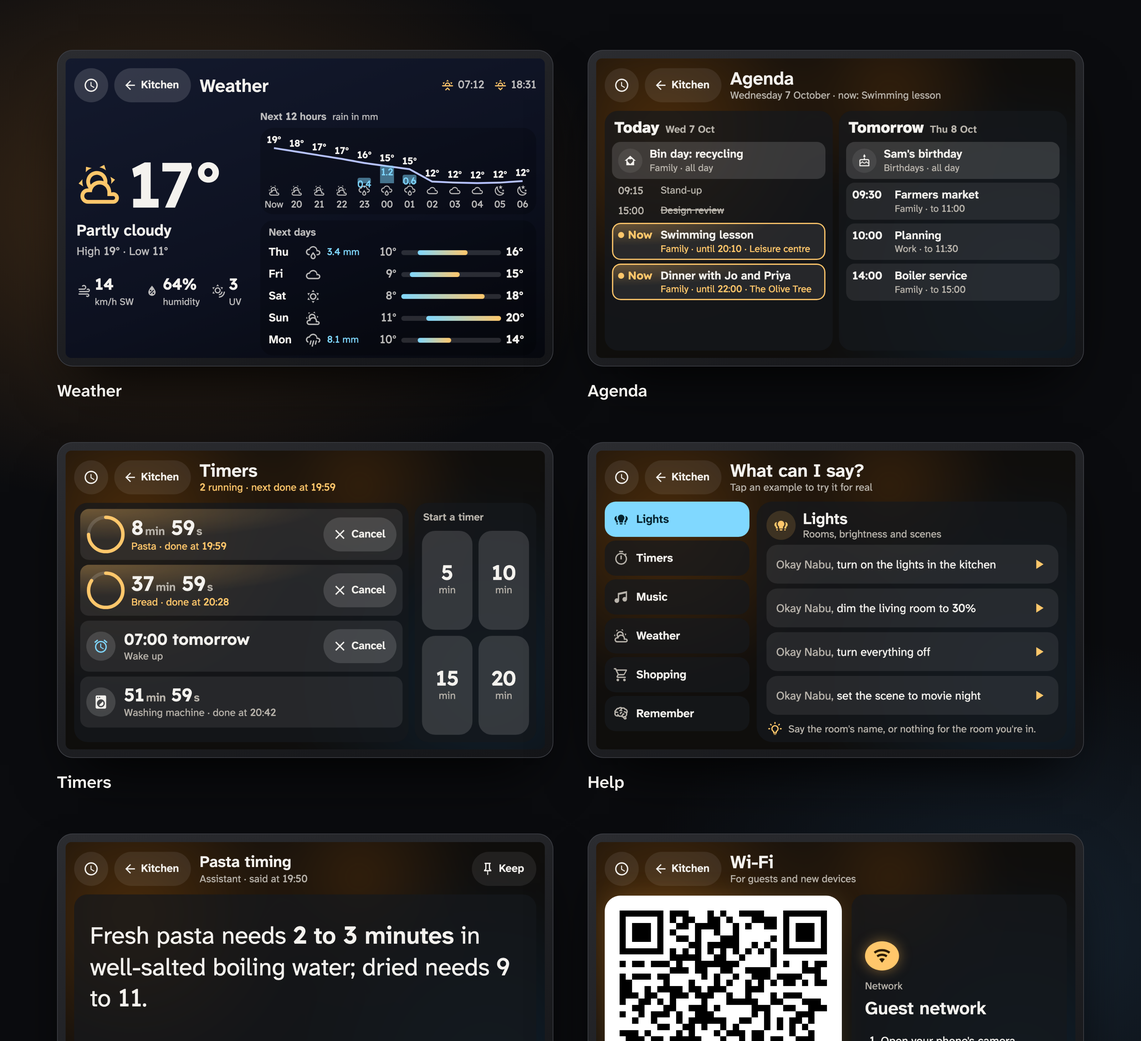
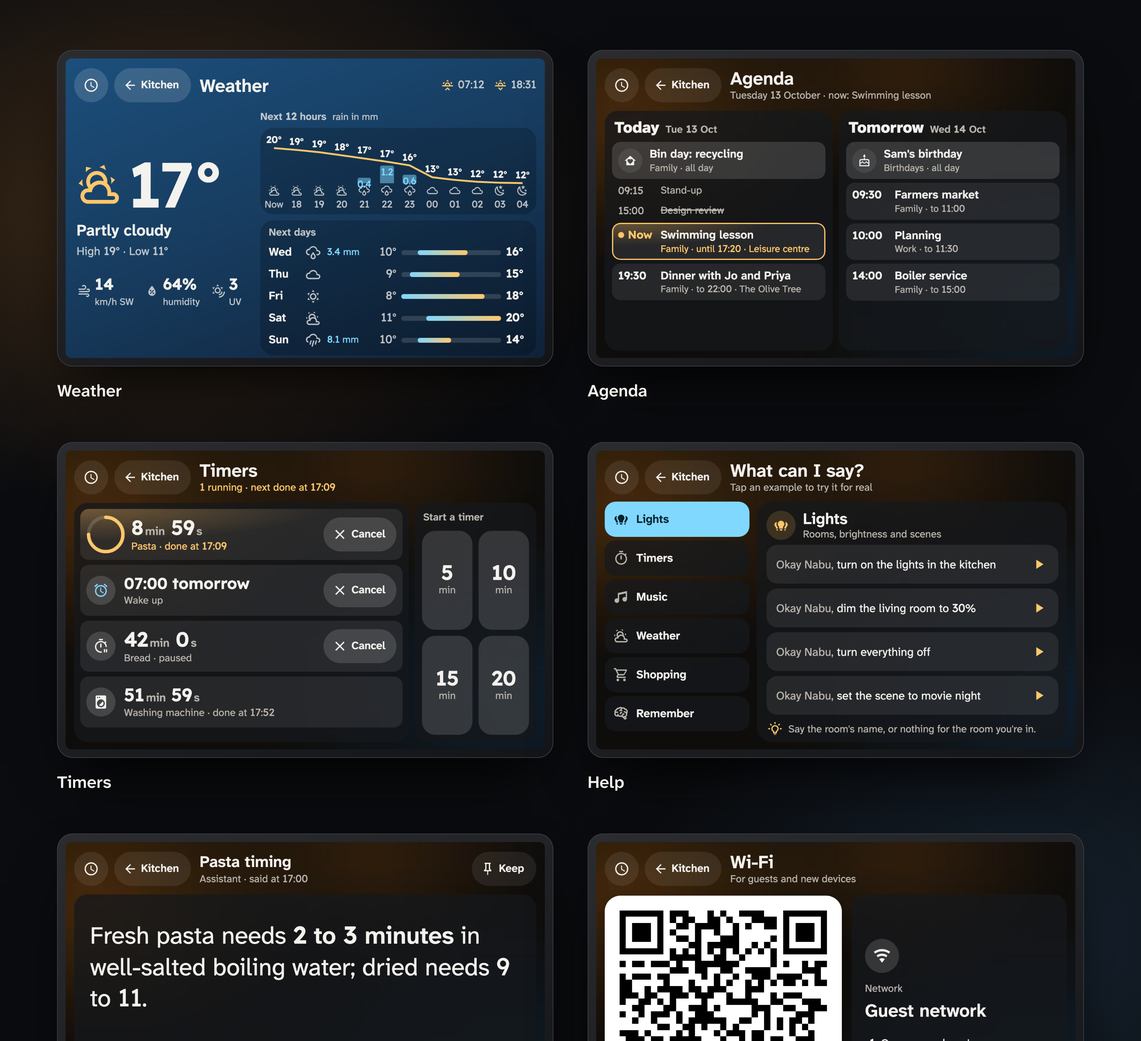
Lamplight 1.2.0: version, CHANGELOG, README, demo states and images
- 1.2.0 in package.json, package-lock.json, core VERSION and the bundle
  banner.
- CHANGELOG.md: 1.0.0 (7 Oct 2026, initial release), 1.1.0 (9 Oct 2026, the
  module layer) and 1.2.0 (13 Oct 2026).
- README: the new core exports (loadState, failedHtml, preblur, PHOTO_LOOK,
  TOAST_MS, UNDO_MS) and hooks (retry, resized, hideToast, toast/call undo),
  the page fit and 'lamplight-layout', the card table, and a CHANGELOG link.
- Demo: the room photo is now one image (demo/room.svg), so the cards
  pre-blur it. A paused timer is in the timers mock, and the gallery adds a
  forecast that won't load, read-only Help while visitors are in, and an info
  misfire. Captions are sentence case. Icons regenerated.
- docs/images re-rendered with tools/showcase.cjs (hero and cards; the
  palette is unchanged).

diff --git a/demo/demo.js b/demo/demo.js
@@ -1,4 +1,5 @@
-// The demo: every card on a made-up home, with a stand-in Home Assistant. Open demo/index.html (any static server),
+// The demo: every card on a made-up home, with a stand-in Home Assistant, then a few of their other states (a forecast
+// that won't load, Help while visitors are in, a reply that isn't an answer). Open demo/index.html (any static server),
 // or demo/index.html?card=weather for one card at tablet size.
 import ICONS from './icons.js';
 import '../dist/lamplight.js';
@@ -27,6 +28,8 @@ const hour = new Date().getHours();
 const states = {
   'sun.sun': { state: hour >= 7 && hour < 19 ? 'above_horizon' : 'below_horizon', attributes: { next_rising: tomorrow(7, 12), next_setting: today(18, 31) } },
   'weather.home': { state: 'partlycloudy', attributes: { temperature: 17, humidity: 64, wind_speed: 14, wind_bearing: 230, uv_index: 3, friendly_name: 'Home' } },
+  'weather.offline': { state: 'cloudy', attributes: { temperature: 13, humidity: 81, wind_speed: 22, wind_bearing: 200, friendly_name: 'Offline' } },
+  'input_boolean.visitors': { state: 'on', attributes: { friendly_name: 'Visitors' } },
   'calendar.family': { state: 'on', attributes: { friendly_name: 'Family' } },
   'calendar.work': { state: 'off', attributes: { friendly_name: 'Work' } },
   'calendar.birthdays': { state: 'off', attributes: { friendly_name: 'Birthdays' } },
@@ -35,11 +38,14 @@ const states = {
     friendly_name: 'the kitchen', home_screen: '/view-assist/clock', mode: 'normal',
     timers: [
       { id: 't1', name: 'pasta', timer_class: 'timer', status: 'running', created_at: at(-3 * MIN), original_expiry: at(9 * MIN), expires: at(9 * MIN) },
-      { id: 't2', name: 'bread', timer_class: 'timer', status: 'running', created_at: at(-7 * MIN), original_expiry: at(38 * MIN), expires: at(38 * MIN) },
+      { id: 't2', name: 'bread', timer_class: 'timer', status: 'paused', created_at: at(-7 * MIN), original_expiry: at(38 * MIN), expires: at(38 * MIN), updated_at: at(-4 * MIN) },
       { id: 'a1', name: 'wake up', timer_class: 'alarm', status: 'running', expires: tomorrow(7, 0) },
     ],
     title: 'Pasta timing',
     message: 'Fresh pasta needs **2 to 3 minutes** in well-salted boiling water; dried needs 9 to 11.\n\n* Taste a minute before the packet time\n* Keep a mug of the water for the sauce',
+  } },
+  'sensor.viewassist_bedroom': { state: 'normal', attributes: {
+    friendly_name: 'the bedroom', home_screen: '/view-assist/clock', mode: 'normal', timers: [], title: '', message: "Sorry, I couldn't understand that",
   } },
 };
 
@@ -74,6 +80,7 @@ const hass = {
       return { conversation_id: 'demo', response: { speech: { plain: { speech: `Done: "${msg.text}". (This is the demo; nothing happened.)` } } } };
     }
     const id = msg.target?.entity_id;
+    if (id === 'weather.offline') { await new Promise((r) => setTimeout(r, 300)); throw new Error('the weather service is offline'); }
     if (msg.domain === 'weather') return { response: { [id]: { forecast: msg.service_data.type === 'hourly' ? hourly : daily } } };
     if (msg.domain === 'calendar') return { response: { [id]: { events: events[id] || [] } } };
     throw new Error('not in the demo');
@@ -82,24 +89,29 @@ const hass = {
 
 const nav = { home: '#', back: '#', back_label: 'Kitchen' };
 const VA = { view_assist_sensor: 'sensor.viewassist_kitchen', nav };
+const HELP = [
+  { name: 'Lights', icon: 'mdi:lightbulb-group', hint: 'Rooms, brightness and scenes', tip: "Say the room's name, or nothing for the room you're in.", examples: [
+    { say: 'turn on the lights in the {room}' }, { say: 'dim the living room to 30%' }, { say: 'turn everything off', confirm: true }, { say: 'set the scene to movie night' }] },
+  { name: 'Timers', icon: 'mdi:timer-outline', hint: 'Timers and alarms on this tablet', examples: [
+    { say: 'set a timer for 10 minutes' }, { say: 'set a pasta timer for 9 minutes' }, { say: 'wake me at 7 tomorrow' }] },
+  { name: 'Music', icon: 'mdi:music', hint: 'Speakers in every room', examples: [{ say: 'play some jazz in the {room}' }, { say: 'pause the music' }, { say: 'turn it up' }] },
+  { name: 'Weather', icon: 'mdi:weather-partly-cloudy', hint: 'Today and the week ahead', examples: [{ say: 'will it rain today?' }, { say: "what's the weather tomorrow?" }] },
+  { name: 'Shopping', icon: 'mdi:cart-outline', hint: 'The shared list', examples: [{ say: 'add oat milk to the shopping list' }, { say: "what's on the shopping list?" }] },
+  { name: 'Remember', icon: 'mdi:brain', hint: 'Notes the house keeps', examples: [{ say: 'remember that…', tap: false, note: 'Needs your own words, so it only shows here' }] },
+];
 const CARDS = {
   weather: { type: 'lamplight-weather-card', entity: 'weather.home', nav },
   agenda: { type: 'lamplight-agenda-card', nav, calendars: {
     'calendar.family': { name: 'Family', icon: 'mdi:home-heart' }, 'calendar.work': { name: 'Work', icon: 'mdi:briefcase-outline' },
     'calendar.birthdays': { name: 'Birthdays', icon: 'mdi:cake-variant-outline' } } },
   timers: { type: 'lamplight-timers-card', ...VA, appliance_timers: [{ entity: 'timer.washing_machine', name: 'Washing machine', icon: 'mdi:washing-machine' }] },
-  help: { type: 'lamplight-help-card', ...VA, rooms: { 'sensor.viewassist_kitchen': 'kitchen' }, categories: [
-    { name: 'Lights', icon: 'mdi:lightbulb-group', hint: 'Rooms, brightness and scenes', tip: "Say the room's name, or nothing for the room you're in.", examples: [
-      { say: 'turn on the lights in the {room}' }, { say: 'dim the living room to 30%' }, { say: 'turn everything off', confirm: true }, { say: 'set the scene to movie night' }] },
-    { name: 'Timers', icon: 'mdi:timer-outline', hint: 'Timers and alarms on this tablet', examples: [
-      { say: 'set a timer for 10 minutes' }, { say: 'set a pasta timer for 9 minutes' }, { say: 'wake me at 7 tomorrow' }] },
-    { name: 'Music', icon: 'mdi:music', hint: 'Speakers in every room', examples: [{ say: 'play some jazz in the {room}' }, { say: 'pause the music' }, { say: 'turn it up' }] },
-    { name: 'Weather', icon: 'mdi:weather-partly-cloudy', hint: 'Today and the week ahead', examples: [{ say: 'will it rain today?' }, { say: "what's the weather tomorrow?" }] },
-    { name: 'Shopping', icon: 'mdi:cart-outline', hint: 'The shared list', examples: [{ say: 'add oat milk to the shopping list' }, { say: "what's on the shopping list?" }] },
-    { name: 'Remember', icon: 'mdi:brain', hint: 'Notes the house keeps', examples: [{ say: 'remember that…', tap: false, note: 'Needs your own words, so it only shows here' }] },
-  ] },
+  help: { type: 'lamplight-help-card', ...VA, rooms: { 'sensor.viewassist_kitchen': 'kitchen' }, categories: HELP },
   info: { type: 'lamplight-info-card', ...VA },
   wifi: { type: 'lamplight-wifi-card', qr: './wifi.svg', ssid: 'Guest network', nav },
+  'forecast-offline': { type: 'lamplight-weather-card', entity: 'weather.offline', nav, caption: "Weather: the forecast won't load" },
+  'help-read-only': { type: 'lamplight-help-card', ...VA, rooms: { 'sensor.viewassist_kitchen': 'kitchen' }, categories: HELP,
+    read_only_entity: 'input_boolean.visitors', caption: 'Help: read-only while visitors are in' },
+  'info-misfire': { type: 'lamplight-info-card', view_assist_sensor: 'sensor.viewassist_bedroom', nav, wake_phrase: 'Okay Nabu', caption: "Info: didn't catch that" },
 };
 
 function mount(name, host) {
@@ -119,7 +131,7 @@ if (one && CARDS[one]) {
   const grid = document.querySelector('#gallery');
   Object.keys(CARDS).forEach((name) => {
     const fig = document.createElement('figure');
-    fig.innerHTML = `<div class="tablet"><div class="screen"></div></div><figcaption><a href="?card=${name}">${name}</a></figcaption>`;
+    fig.innerHTML = `<div class="tablet"><div class="screen"></div></div><figcaption><a href="?card=${name}">${CARDS[name].caption || name}</a></figcaption>`;
     grid.appendChild(fig);
     mount(name, fig.querySelector('.screen'));
   });

diff --git a/demo/icons.js b/demo/icons.js
@@ -13,18 +13,23 @@ export default {
  "chevron-down": "M7.41,8.58L12,13.17L16.59,8.58L18,10L12,16L6,10L7.41,8.58Z",
  "clock-outline": "M12,20A8,8 0 0,0 20,12A8,8 0 0,0 12,4A8,8 0 0,0 4,12A8,8 0 0,0 12,20M12,2A10,10 0 0,1 22,12A10,10 0 0,1 12,22C6.47,22 2,17.5 2,12A10,10 0 0,1 12,2M12.5,7V12.25L17,14.92L16.25,16.15L11,13V7H12.5Z",
  "close": "M19,6.41L17.59,5L12,10.59L6.41,5L5,6.41L10.59,12L5,17.59L6.41,19L12,13.41L17.59,19L19,17.59L13.41,12L19,6.41Z",
+ "cloud-alert-outline": "M21.86 12.5C21.1 11.63 20.15 11.13 19 11C19 9.05 18.32 7.4 16.96 6.04C15.6 4.68 13.95 4 12 4C10.42 4 9 4.47 7.75 5.43S5.67 7.62 5.25 9.15C4 9.43 2.96 10.08 2.17 11.1S1 13.28 1 14.58C1 16.09 1.54 17.38 2.61 18.43C3.69 19.5 5 20 6.5 20H18.5C19.75 20 20.81 19.56 21.69 18.69C22.56 17.81 23 16.75 23 15.5C23 14.35 22.62 13.35 21.86 12.5M20.27 17.27C19.79 17.76 19.2 18 18.5 18H6.5C5.53 18 4.71 17.66 4.03 17C3.34 16.29 3 15.47 3 14.5S3.34 12.71 4.03 12.03C4.71 11.34 5.53 11 6.5 11H7C7 9.62 7.5 8.44 8.46 7.46C9.44 6.5 10.62 6 12 6S14.56 6.5 15.54 7.46C16.5 8.44 17 9.62 17 11V13H18.5C19.2 13 19.79 13.24 20.27 13.73S21 14.8 21 15.5 20.76 16.79 20.27 17.27M11 15H13V17H11V15M11 7H13V13H11V7Z",
  "comment-text-outline": "M9,22A1,1 0 0,1 8,21V18H4A2,2 0 0,1 2,16V4C2,2.89 2.9,2 4,2H20A2,2 0 0,1 22,4V16A2,2 0 0,1 20,18H13.9L10.2,21.71C10,21.9 9.75,22 9.5,22V22H9M10,16V19.08L13.08,16H20V4H4V16H10M6,7H18V9H6V7M6,11H15V13H6V11Z",
  "home-heart": "M2,12L12,3L22,12H19V20H5V12H2M12,18L12.72,17.34C15.3,15 17,13.46 17,11.57C17,10.03 15.79,8.82 14.25,8.82C13.38,8.82 12.55,9.23 12,9.87C11.45,9.23 10.62,8.82 9.75,8.82C8.21,8.82 7,10.03 7,11.57C7,13.46 8.7,15 11.28,17.34L12,18Z",
  "lightbulb-group": "M15 14V16A1 1 0 0 1 14 17H10A1 1 0 0 1 9 16V14A5 5 0 1 1 15 14M14 18H10V19A1 1 0 0 0 11 20H13A1 1 0 0 0 14 19M7 19V18H5V19A1 1 0 0 0 6 20H7.17A2.93 2.93 0 0 1 7 19M5 10A6.79 6.79 0 0 1 5.68 7A4 4 0 0 0 4 14.45V16A1 1 0 0 0 5 17H7V14.88A6.92 6.92 0 0 1 5 10M17 18V19A2.93 2.93 0 0 1 16.83 20H18A1 1 0 0 0 19 19V18M18.32 7A6.79 6.79 0 0 1 19 10A6.92 6.92 0 0 1 17 14.88V17H19A1 1 0 0 0 20 16V14.45A4 4 0 0 0 18.32 7Z",
  "lightbulb-on-outline": "M20,11H23V13H20V11M1,11H4V13H1V11M13,1V4H11V1H13M4.92,3.5L7.05,5.64L5.63,7.05L3.5,4.93L4.92,3.5M16.95,5.63L19.07,3.5L20.5,4.93L18.37,7.05L16.95,5.63M12,6A6,6 0 0,1 18,12C18,14.22 16.79,16.16 15,17.2V19A1,1 0 0,1 14,20H10A1,1 0 0,1 9,19V17.2C7.21,16.16 6,14.22 6,12A6,6 0 0,1 12,6M14,21V22A1,1 0 0,1 13,23H11A1,1 0 0,1 10,22V21H14M11,18H13V15.87C14.73,15.43 16,13.86 16,12A4,4 0 0,0 12,8A4,4 0 0,0 8,12C8,13.86 9.27,15.43 11,15.87V18Z",
  "message-text-outline": "M20,2A2,2 0 0,1 22,4V16A2,2 0 0,1 20,18H6L2,22V4C2,2.89 2.9,2 4,2H20M4,4V17.17L5.17,16H20V4H4M6,7H18V9H6V7M6,11H15V13H6V11Z",
+ "microphone-question": "M9 2C10.66 2 12 3.34 12 5V11C12 12.66 10.66 14 9 14S6 12.66 6 11V5C6 3.34 7.34 2 9 2M16 11C16 14.53 13.39 17.44 10 17.93V21H8V17.93C4.61 17.44 2 14.53 2 11H4C4 13.76 6.24 16 9 16S14 13.76 14 11H16M20.5 14.5V16H19V14.5H20.5M18.5 9.5H17V9C17 7.34 18.34 6 20 6S23 7.34 23 9C23 9.97 22.5 10.88 21.71 11.41L21.41 11.6C20.84 12 20.5 12.61 20.5 13.3V13.5H19V13.3C19 12.11 19.6 11 20.59 10.35L20.88 10.16C21.27 9.9 21.5 9.47 21.5 9C21.5 8.17 20.83 7.5 20 7.5S18.5 8.17 18.5 9V9.5Z",
  "music": "M21,3V15.5A3.5,3.5 0 0,1 17.5,19A3.5,3.5 0 0,1 14,15.5A3.5,3.5 0 0,1 17.5,12C18.04,12 18.55,12.12 19,12.34V6.47L9,8.6V17.5A3.5,3.5 0 0,1 5.5,21A3.5,3.5 0 0,1 2,17.5A3.5,3.5 0 0,1 5.5,14C6.04,14 6.55,14.12 7,14.34V6L21,3Z",
  "pin": "M16,12V4H17V2H7V4H8V12L6,14V16H11.2V22H12.8V16H18V14L16,12Z",
  "pin-outline": "M16,12V4H17V2H7V4H8V12L6,14V16H11.2V22H12.8V16H18V14L16,12M8.8,14L10,12.8V4H14V12.8L15.2,14H8.8Z",
  "play": "M8,5.14V19.14L19,12.14L8,5.14Z",
+ "refresh": "M17.65,6.35C16.2,4.9 14.21,4 12,4A8,8 0 0,0 4,12A8,8 0 0,0 12,20C15.73,20 18.84,17.45 19.73,14H17.65C16.83,16.33 14.61,18 12,18A6,6 0 0,1 6,12A6,6 0 0,1 12,6C13.66,6 15.14,6.69 16.22,7.78L13,11H20V4L17.65,6.35Z",
  "sun-wireless-outline": "M11 1L13.39 4.42C12.65 4.15 11.84 4 11 4S9.35 4.15 8.61 4.42L11 1M2.34 6L6.5 5.65C5.9 6.16 5.36 6.78 4.94 7.5C4.5 8.24 4.25 9 4.11 9.79L2.34 6M2.36 16L4.12 12.23C4.26 13 4.53 13.78 4.95 14.5C5.37 15.24 5.91 15.86 6.5 16.37L2.36 16M19.65 6L17.88 9.79C17.74 9 17.47 8.23 17.05 7.5C16.63 6.78 16.1 6.15 15.5 5.64L19.65 6M23 13H21C21 15.05 20.22 17.1 18.66 18.66C17.09 20.23 15.05 21 13 21V23C15.56 23 18.12 22 20.07 20.07S23 15.56 23 13M19 13H17C17 14 16.61 15.05 15.83 15.83C15.05 16.61 14 17 13 17V19C14.54 19 16.08 18.41 17.25 17.24C18.41 16.08 19 14.54 19 13M11 8C12.65 8 14 9.35 14 11S12.65 14 11 14 8 12.65 8 11 9.35 8 11 8M11 6C8.24 6 6 8.24 6 11S8.24 16 11 16 16 13.76 16 11 13.76 6 11 6Z",
  "timer-outline": "M12,20A7,7 0 0,1 5,13A7,7 0 0,1 12,6A7,7 0 0,1 19,13A7,7 0 0,1 12,20M19.03,7.39L20.45,5.97C20,5.46 19.55,5 19.04,4.56L17.62,6C16.07,4.74 14.12,4 12,4A9,9 0 0,0 3,13A9,9 0 0,0 12,22C17,22 21,17.97 21,13C21,10.88 20.26,8.93 19.03,7.39M11,14H13V8H11M15,1H9V3H15V1Z",
+ "timer-pause-outline": "M21 13.35C20.36 13.13 19.7 13 19 13C19 9.13 15.87 6 12 6S5 9.13 5 13 8.13 20 12 20C12.37 20 12.72 19.96 13.08 19.91C13.18 20.6 13.4 21.25 13.71 21.83C13.16 21.94 12.59 22 12 22C7.03 22 3 17.97 3 13S7.03 4 12 4C14.12 4 16.07 4.74 17.62 6L19.04 4.56C19.55 5 20 5.46 20.45 5.97L19.03 7.39C20.26 8.93 21 10.88 21 13C21 13.12 21 13.23 21 13.35M11 14H13V8H11V14M15 1H9V3H15V1M19.63 16.5V21.5H21.5V16.5H19.63M16.5 21.5H18.38V16.5H16.5V21.5Z",
  "timer-sand": "M6,2H18V8H18V8L14,12L18,16V16H18V22H6V16H6V16L10,12L6,8V8H6V2M16,16.5L12,12.5L8,16.5V20H16V16.5M12,11.5L16,7.5V4H8V7.5L12,11.5M10,6H14V6.75L12,8.75L10,6.75V6Z",
+ "undo": "M12.5,8C9.85,8 7.45,9 5.6,10.6L2,7V16H11L7.38,12.38C8.77,11.22 10.54,10.5 12.5,10.5C16.04,10.5 19.05,12.81 20.1,16L22.47,15.22C21.08,11.03 17.15,8 12.5,8Z",
  "washing-machine": "M14.83,11.17C16.39,12.73 16.39,15.27 14.83,16.83C13.27,18.39 10.73,18.39 9.17,16.83L14.83,11.17M6,2H18A2,2 0 0,1 20,4V20A2,2 0 0,1 18,22H6A2,2 0 0,1 4,20V4A2,2 0 0,1 6,2M7,4A1,1 0 0,0 6,5A1,1 0 0,0 7,6A1,1 0 0,0 8,5A1,1 0 0,0 7,4M10,4A1,1 0 0,0 9,5A1,1 0 0,0 10,6A1,1 0 0,0 11,5A1,1 0 0,0 10,4M12,8A6,6 0 0,0 6,14A6,6 0 0,0 12,20A6,6 0 0,0 18,14A6,6 0 0,0 12,8Z",
  "water-percent": "M12,3.25C12,3.25 6,10 6,14C6,17.32 8.69,20 12,20A6,6 0 0,0 18,14C18,10 12,3.25 12,3.25M14.47,9.97L15.53,11.03L9.53,17.03L8.47,15.97M9.75,10A1.25,1.25 0 0,1 11,11.25A1.25,1.25 0 0,1 9.75,12.5A1.25,1.25 0 0,1 8.5,11.25A1.25,1.25 0 0,1 9.75,10M14.25,14.5A1.25,1.25 0 0,1 15.5,15.75A1.25,1.25 0 0,1 14.25,17A1.25,1.25 0 0,1 13,15.75A1.25,1.25 0 0,1 14.25,14.5Z",
  "weather-cloudy": "M6,19A5,5 0 0,1 1,14A5,5 0 0,1 6,9C7,6.65 9.3,5 12,5C15.43,5 18.24,7.66 18.5,11.03L19,11A4,4 0 0,1 23,15A4,4 0 0,1 19,19H6M19,13H17V12A5,5 0 0,0 12,7C9.5,7 7.45,8.82 7.06,11.19C6.73,11.07 6.37,11 6,11A3,3 0 0,0 3,14A3,3 0 0,0 6,17H19A2,2 0 0,0 21,15A2,2 0 0,0 19,13Z",

diff --git a/demo/index.html b/demo/index.html
@@ -5,9 +5,8 @@
 <meta name="viewport" content="width=device-width, initial-scale=1">
 <title>Lamplight cards: demo</title>
 <style>
-  /* A stand-in for the blurred room photo the cards sit on: two lamps and a window. */
-  :root { --l-photo: radial-gradient(circle at 18% 28%, #c47a2c 0, transparent 34%), radial-gradient(circle at 84% 72%, #2f5577 0, transparent 40%),
-    radial-gradient(circle at 60% 18%, #8a5a2a 0, transparent 26%), #2a2622; }
+  /* A stand-in for the room photo the cards sit on (two lamps and a window): one image, so the cards pre-blur it. */
+  :root { --l-photo: url("room.svg"); }
   body { margin: 0; background: #08090b; color: #b9b4ac; font: 16px/1.4 system-ui, sans-serif; }
   header { padding: 32px 40px 8px; }
   header h1 { margin: 0; color: #f4f2ee; font-weight: 600; }
@@ -17,7 +16,8 @@
   .tablet { width: 560px; height: 349px; overflow: hidden; border-radius: 18px; box-shadow: 0 0 0 10px #1b1c20, 0 30px 60px -20px #000; }
   /* Each card is laid out at the tablet's 788×492 and scaled to fit the frame. */
   .screen { --l-height: 492px; width: 788px; height: 492px; transform: scale(.7107); transform-origin: 0 0; }
-  figcaption { margin-top: 16px; } figcaption a { color: #f4f2ee; text-transform: capitalize; }
+  figcaption { margin-top: 16px; } figcaption a { color: #f4f2ee; }
+  figcaption::first-letter { text-transform: uppercase; }
   body.single header, body.single #gallery { display: none; }
   #single { --l-height: 492px; width: 788px; height: 492px; overflow: hidden; }
 </style>
@@ -25,7 +25,8 @@
 <body>
 <header>
   <h1>Lamplight cards</h1>
-  <p>Six cards on a made-up home, with a stand-in Home Assistant. Tap around; nothing is connected.
+  <p>Six cards on a made-up home, with a stand-in Home Assistant, then a few of their other states. Tap around; nothing
+    is connected.
     <a href="https://github.com/HaydenGriffin/lamplight">Source and design system</a></p>
 </header>
 <div id="gallery"></div>

diff --git a/dist/lamplight.js b/dist/lamplight.js
@@ -1,7 +1,7 @@
-/* Lamplight 1.1.0 for Home Assistant. https://github.com/HaydenGriffin/lamplight (MIT). Built from src/ by scripts/build.mjs. */
+/* Lamplight 1.2.0 for Home Assistant. https://github.com/HaydenGriffin/lamplight (MIT). Built from src/ by scripts/build.mjs. */
 
 // src/core.js
-var VERSION = "1.1.0";
+var VERSION = "1.2.0";
 var fontBase = () => globalThis.lamplightFontBase || new URL(".", import.meta.url).href;
 var registerFonts = (base = fontBase()) => {
   if (document.getElementById("lamplight-fonts")) return;

diff --git a/src/core.js b/src/core.js
@@ -2,7 +2,7 @@
  * ("Building on Lamplight") for this module's API.
  * The cards are built for wall tablets (around 788×492 CSS px, landscape) and fill the screen: one card per view,
  * in a panel or a View Assist dashboard. */
-export const VERSION = '1.1.0';
+export const VERSION = '1.2.0';
 
 /* Where the font files are: next to the file this code runs from (dist/ for the HACS bundle), unless the page sets
    window.lamplightFontBase (a URL ending in "/") before loading it, e.g. a bundle that keeps its fonts elsewhere. */

diff --git a/README.md b/README.md
@@ -35,9 +35,9 @@ of them:
 | --- | --- |
 | `lamplight-weather-card` | Now, the next 12 hours as a temperature line with rain bars, and five days of low–high bars. The page's sky follows the weather. |
 | `lamplight-agenda-card` | Today and tomorrow from your calendars. What's on now glows, earlier events fade, cancelled ones are struck through. |
-| `lamplight-timers-card` | View Assist timers with live countdown rings, alarms, appliance timers, and quick-start buttons. |
+| `lamplight-timers-card` | View Assist timers with live countdown rings, paused timers, alarms, appliance timers, and quick-start buttons. Cancel has Undo. |
 | `lamplight-help-card` | "What can I say?" A voice cheat-sheet where tapping an example runs it through your assistant and shows the reply. |
-| `lamplight-info-card` | The assistant's last answer, auto-fitted as large as it will go, for View Assist's info pages. |
+| `lamplight-info-card` | The assistant's last answer, auto-fitted as large as it will go, for View Assist's info, infopic and alert pages. Says "Didn't catch that" when it wasn't an answer. |
 | `lamplight-wifi-card` | A guest Wi-Fi QR code big enough to scan from the sofa. The password lives only in the image. |
 
 ## Install
@@ -195,15 +195,22 @@ define('pantry-card', PantryCard, 'Pantry', 'What we have in.');
 
 | Export | What it is |
 | --- | --- |
-| `LamplightCard` | The base class: `setConfig` (merged over `defaults()`), `hass`, `shell(title, mainHtml, {sub, extra})` (header with clock and Back, the card's main, a toast), `build()` / `update()` / `styles()` / `act(name, el)` to override, `st(id)`, `call(domain, service, data, doneText)`, `toast(text, error)`, `setSub(text)`, `hhmm(date)`, navigation (`goHome`, `goBack`, `window.lamplightNav`, `nav` config). |
+| `LamplightCard` | The base class: `setConfig` (merged over `defaults()`), `hass`, `shell(title, mainHtml, {sub, extra})` (header with clock and Back, the card's main, a toast; it also fits the card to the screen and pre-blurs the photo), `build()` / `update()` / `styles()` / `act(name, el)` to override, `retry()` (the Retry button) and `resized()` (after the card is fitted), `st(id)`, `call(domain, service, data, doneText, undo)`, `toast(text, error, ms, undo)` and `hideToast()`, `setSub(text, cls)`, `hhmm(date)`, navigation (`goHome`, `goBack`, `window.lamplightNav`, `nav` config). |
 | `define(tag, cls, name, description)` | Registers the element once (a second load is a no-op) and lists it in the card picker once. Returns the class registered under `tag`. |
 | `TOKENS`, `BASE_CSS` | The CSS custom properties (The One Token Rule, DESIGN.md) and the shared page, header, button and toast styles that `shell()` puts in each card's shadow root. |
 | `esc(value)`, `cap(text)`, `dayStart(date)` | HTML escaping for anything you interpolate, capitalising, and local midnight of a date. |
+| `loadState({loading, error, count})`, `failedHtml(what)` | A load state (`loading`, `failed`, `empty` or `ready`; something to show beats an error) and the one "Couldn't load *what*" block with Retry (DESIGN.md, Load states). |
+| `preblur(url, look?, width?)`, `PHOTO_LOOK` | The page photo blurred once into a small image (a promise of a data URL, or null), and the look it's blurred to. Cards use it on their own `--l-photo`. |
+| `TOAST_MS`, `UNDO_MS` | How long a toast stays, and a toast with Undo. |
 | `registerFonts(base?)`, `fontBase()` | The Lamplight Text and Lexend faces, registered on the document once when the core loads. |
 | `VERSION` | This release. |
 | `LamplightWeatherCard` … `LamplightWifiCard` | The six cards' classes (each registers itself when its module loads). |
 
 Import `src/core.js` for the core alone (no cards registered), or `src/cards/<name>.js` for one card.
+
+**Page fit.** Each card fills the screen below whatever is above it (Home Assistant's header, say), measured with one
+shared ResizeObserver. If your dashboard moves things without a resize, dispatch `window.dispatchEvent(new
+Event('lamplight-layout'))`.
 
 **Fonts.** The core looks for `ahn-latin.woff2`, `ahn-latin-ext.woff2` and `lexend-latin.woff2` next to the file it runs
 from (`dist/` for the HACS bundle). If your bundle puts them somewhere else, set `window.lamplightFontBase` (ending in
@@ -212,9 +219,12 @@ from (`dist/` for the HACS bundle). If your bundle puts them somewhere else, set
 ## Development
 
 Edit `src/`, then `npm ci` (once: esbuild, pinned) and `node scripts/build.mjs` to rebuild `dist/lamplight.js`; CI checks
-the committed bundle is up to date. `npm test` runs the module tests (node, no browser). For the demo, serve the repo root
-(`python3 -m http.server`) and open `/demo/`; `npm run demo-icons` regenerates its icon set after you add an icon.
+the committed bundle is up to date. `npm test` runs the module and card tests (node, no browser). For the demo, serve the repo root
+(`python3 -m http.server`) and open `/demo/`, which also shows a few other states (a forecast that won't load, read-only
+Help, a misfire); `npm run demo-icons` regenerates its icon set after you add an icon.
 `tools/showcase.cjs` renders the images above.
+
+Changes are listed in [`CHANGELOG.md`](CHANGELOG.md).
 
 ## Licence
 

diff --git a/CHANGELOG.md b/CHANGELOG.md
@@ -1,0 +1,49 @@
+# Changelog
+
+## 1.2.0 (13 October 2026)
+
+**Load states.** A card that fetches something now says whether it is loading, failed, empty or ready. When the
+forecast or the calendars can't be read, the card shows "Couldn't load …" with a Retry button and a warning subtitle,
+instead of "Loading forecast…" for good. A refresh that fails keeps what was on screen. New in the core: `loadState()`,
+`failedHtml()` and a `retry()` hook. See DESIGN.md, Load states.
+
+**Page fit.** Cards size themselves to the screen with one shared ResizeObserver instead of polling every 2 seconds.
+They stop watching when they leave the page and start again when Home Assistant brings a view back. Dispatch
+`lamplight-layout` on `window` if your dashboard moves things without a resize. New `resized()` hook.
+
+**Pre-blurred photo.** When `--l-photo` is one image, it is blurred once into a small image (`preblur()`) and shown with
+no live filter, which is much lighter on kiosk tablets. Gradients and images the page can't read keep the live blur.
+
+**Cards**
+- Timers: paused timers show the time they have left. Cancelling a running timer offers Undo, which sets it again for
+  the time it had left. Alarms, reminders and paused timers ask for a second tap ("Tap again to cancel").
+- Info: a reply that isn't an answer shows "Didn't catch that", naming your `wake_phrase` if you set one.
+  `?alert=1` shows View Assist's `alert_data`, and `?pic=1` shows the image without `show_image`.
+- Help: with `read_only_entity` on, the examples are shown but a tap runs nothing.
+- Wi-Fi follows the Lamp Rule: a neutral disc, a drop shadow on the code, and plain bold steps. Nothing on that page is
+  "on".
+- `toast()` takes an optional Undo action, and `call()` passes one through. New `hideToast()`, `TOAST_MS` and `UNDO_MS`.
+
+**Theme.** `themes/lamplight.yaml` puts Home Assistant's own header, sidebar and stock cards in the Lamplight colours.
+
+**Demo and tests.** The demo gallery adds a forecast that won't load, a paused timer, read-only Help and a misfire, on a
+room photo the cards pre-blur. Card behaviour tests run in node against a stand-in DOM.
+
+## 1.1.0 (9 October 2026)
+
+**A reusable module layer.**
+- `src/` is ES modules: `core.js` exports the base class and helpers, each card imports what it uses and exports its
+  class, and `src/index.js` re-exports it all.
+- `dist/lamplight.js` is built with esbuild into an ES module with the same exports. It is still one HACS plugin file,
+  so other cards can `import { LamplightCard, define, esc } …`.
+- The fonts are still found next to the bundle, and `window.lamplightFontBase` can point somewhere else.
+- `define()` registers a tag once and lists it in the card picker once, so two copies of the bundle don't clash.
+- `dayStart` is now a core export. The timers card had been using the agenda card's copy.
+- New: module tests (node, no browser), CI checks that the bundle is up to date, and a README section, "Building on
+  Lamplight".
+
+## 1.0.0 (7 October 2026)
+
+Initial release. DESIGN.md (the Lamplight design system) and six cards for Home Assistant wall tablets: weather,
+agenda, timers, help, info and Wi-Fi. Also the bundled fonts (Atkinson Hyperlegible Next with Lexend digits), a demo
+on a stand-in Home Assistant, and the HACS packaging.
